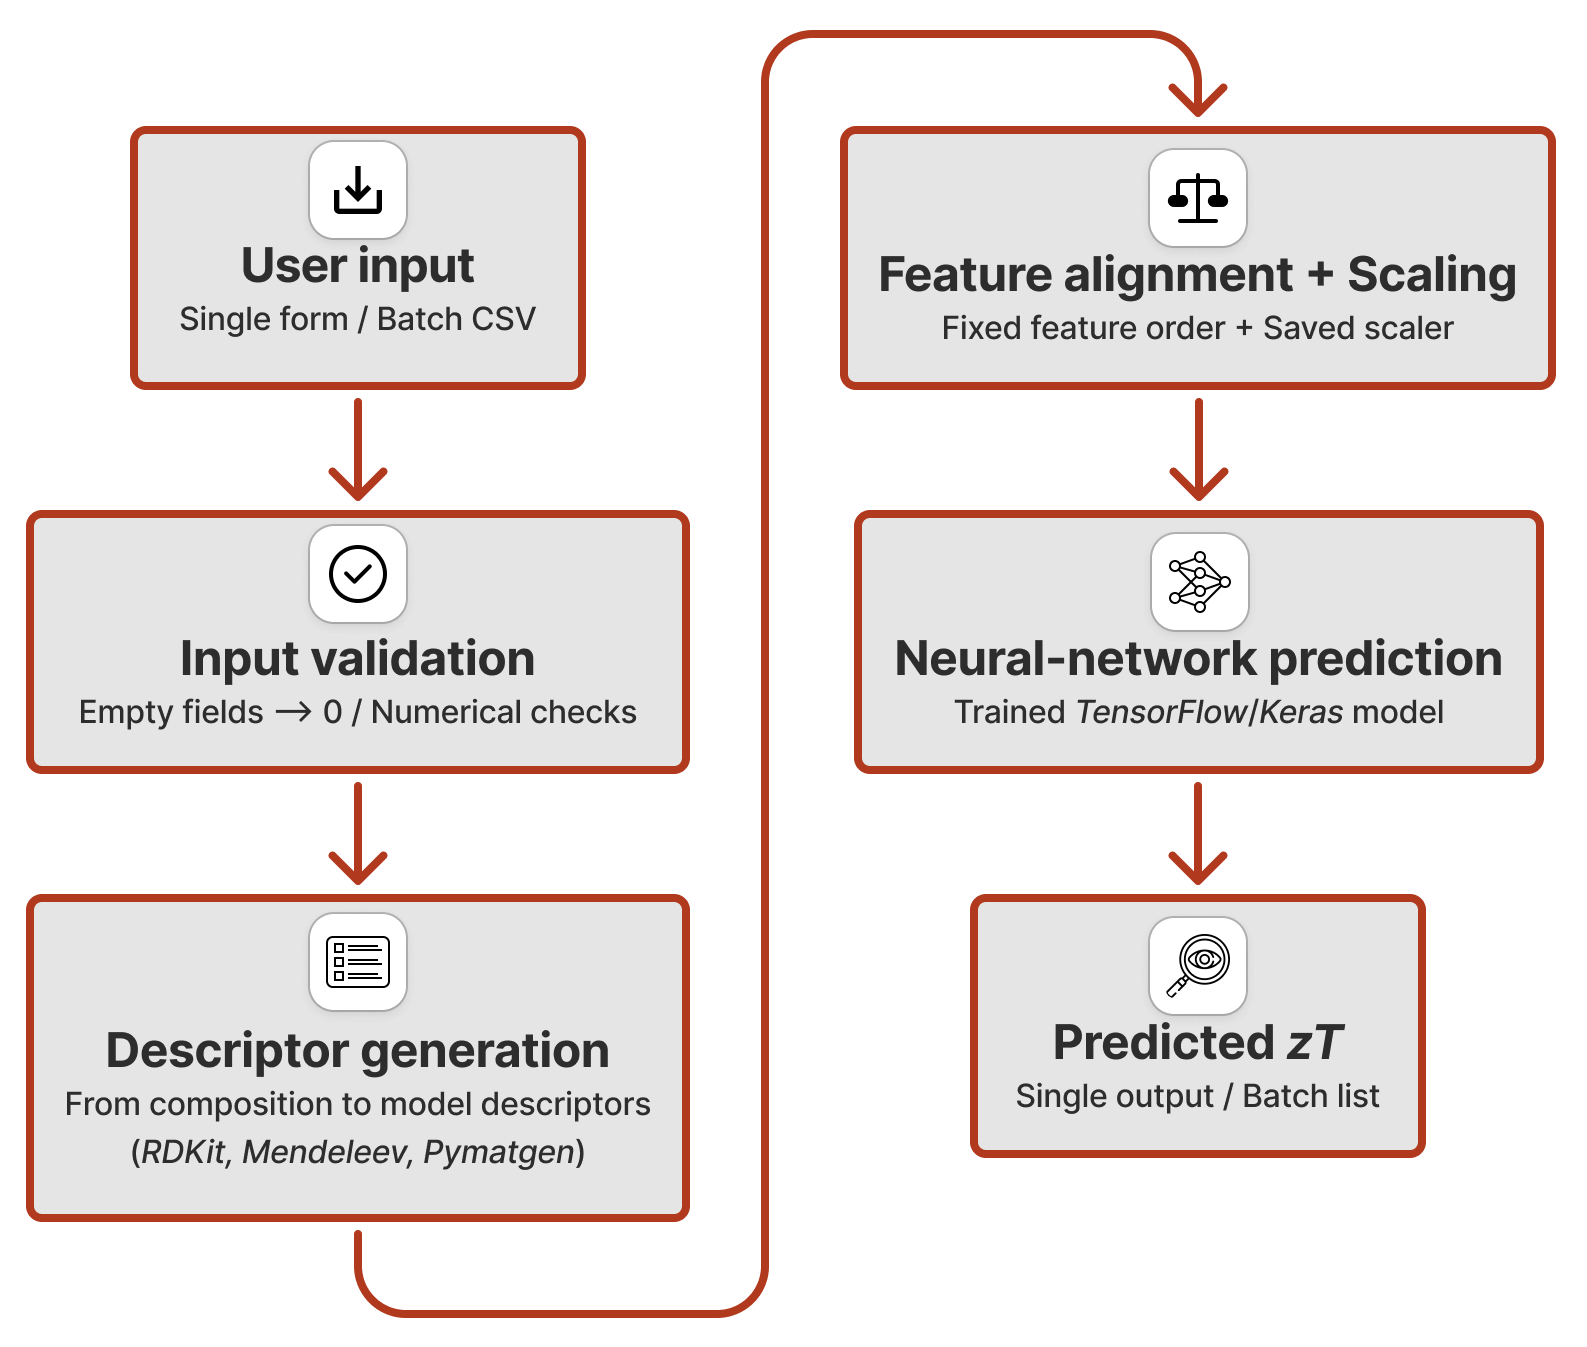
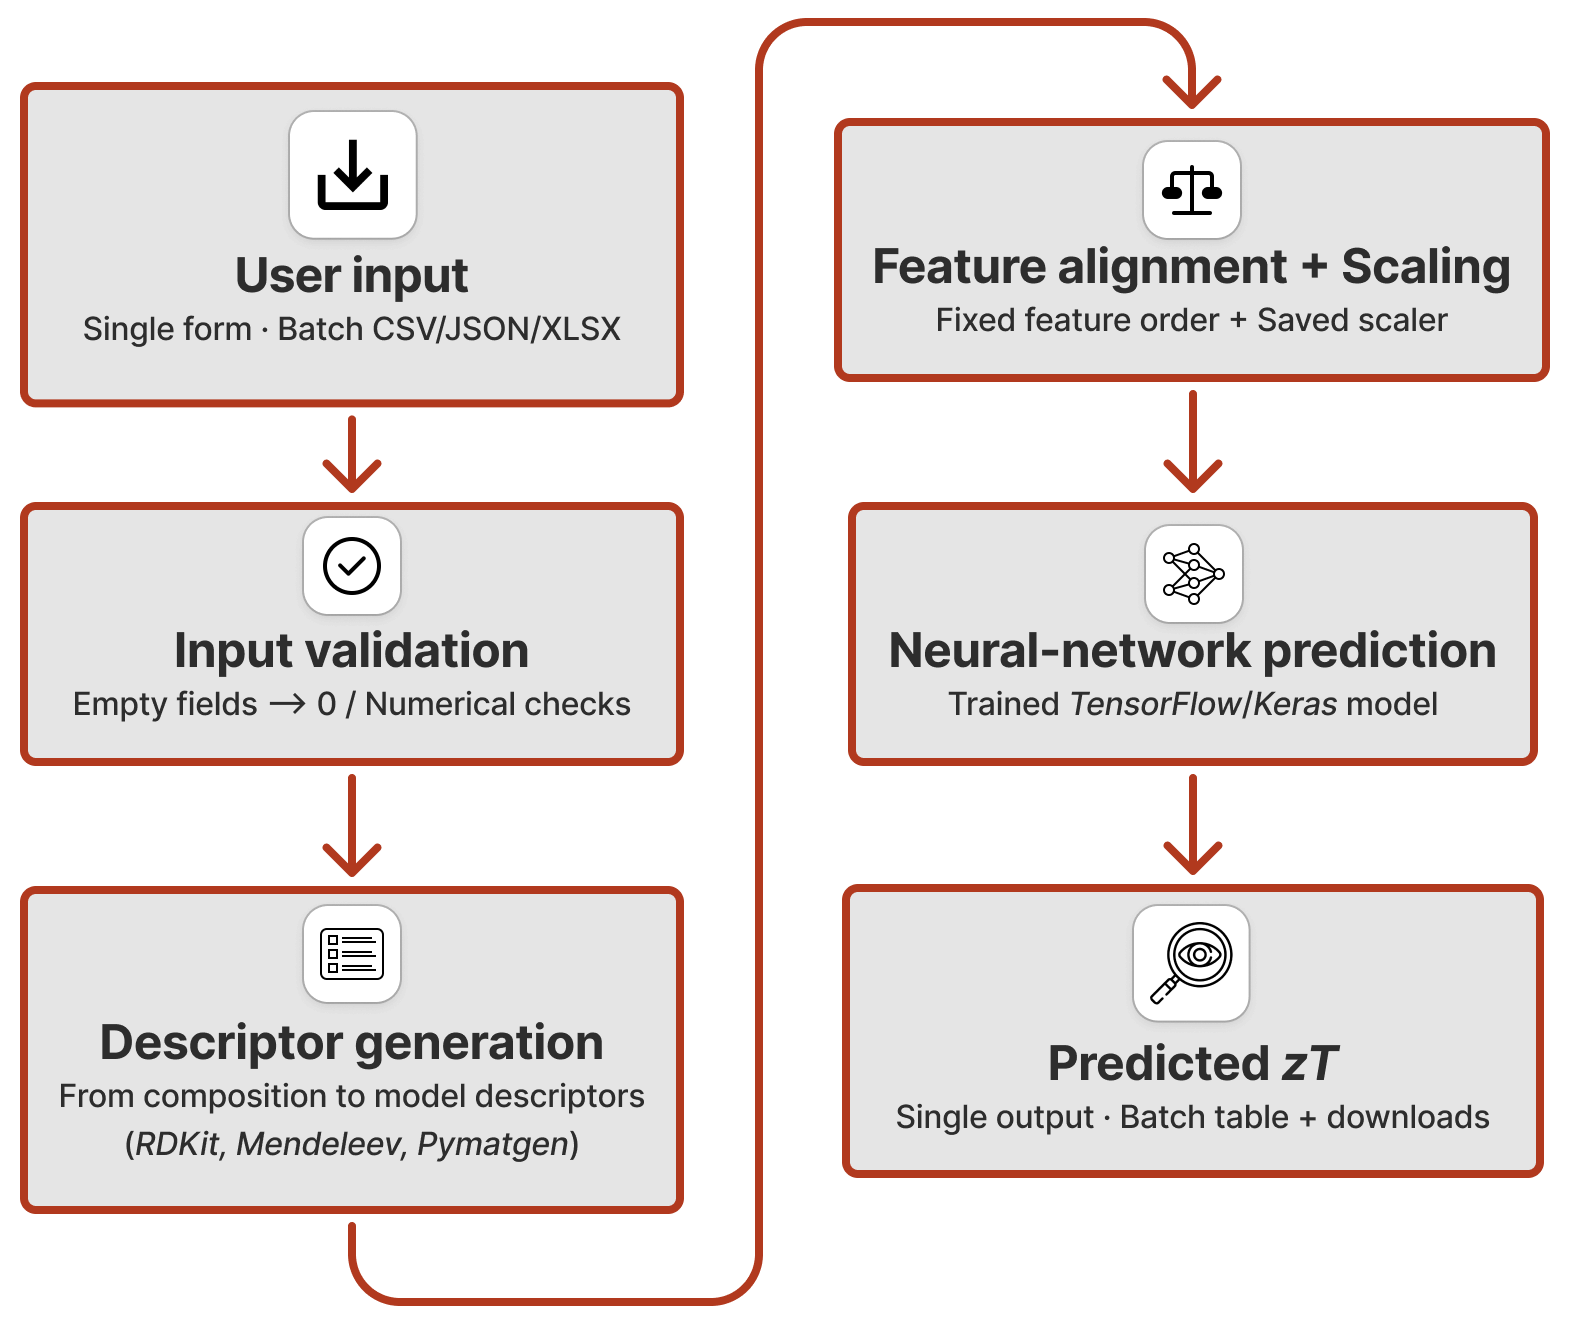
Polish documentation for JOSS submission

diff --git a/static/index.html b/static/index.html
@@ -205,6 +205,29 @@
       min-height: 220px;
     }
 
+    .side-stack {
+      display: flex;
+      flex-direction: column;
+      gap: 22px;
+      height: 100%;
+    }
+
+    .intro-card {
+      min-height: 0;
+      justify-content: flex-start;
+      gap: 10px;
+    }
+
+    .intro-card p {
+      margin: 0;
+      color: var(--muted);
+      font-size: 0.95rem;
+    }
+
+    .metrics-card {
+      flex: 1;
+    }
+
     .metric {
       border-top: 1px solid var(--line);
       padding-top: 16px;
@@ -494,18 +517,29 @@
         </div>
       </div>
 
-      <aside class="side-card">
-        <div class="metric">
-          <div class="metric-label">Validation</div>
-          <div class="metric-value">RMSE 0.068 · R² 0.947</div>
+      <aside class="side-stack">
+        <div class="side-card intro-card">
+          <div>
+            <div class="metric-label">What is this?</div>
+            <p>
+              Thermoelectric materials convert heat into electricity. <em>zTSkut</em> estimates the thermoelectric efficiency (<em>zT</em>) of skutterudite materials from composition, carrier concentration, temperature and carrier type.
+            </p>
+          </div>
         </div>
-        <div class="metric">
-          <div class="metric-label">External test</div>
-          <div class="metric-value">RMSE 0.156 · R² 0.836</div>
-        </div>
-        <div class="metric">
-          <div class="metric-label">Input modes</div>
-          <div class="metric-value">Single · Batch CSV/JSON/XLSX</div>
+
+        <div class="side-card metrics-card">
+          <div class="metric">
+            <div class="metric-label">Validation</div>
+            <div class="metric-value">RMSE 0.068 · R² 0.947</div>
+          </div>
+          <div class="metric">
+            <div class="metric-label">External test</div>
+            <div class="metric-value">RMSE 0.156 · R² 0.836</div>
+          </div>
+          <div class="metric">
+            <div class="metric-label">Input modes</div>
+            <div class="metric-value">Single · Batch CSV/JSON/XLSX</div>
+          </div>
         </div>
       </aside>
     </section>
@@ -604,7 +638,7 @@
         <h2>Batch prediction</h2>
         <a class="template-link" href="/static/sample_template.csv" download>Download CSV template</a>
       </div>
-      <p class="hint">Upload a CSV, JSON, or Excel (.xlsx) file to predict zT for multiple skutterudite candidates in one run. Files should use measured or experimentally determined stoichiometric fractions, not nominal synthesis fractions.</p>
+      <p class="hint">Upload a CSV, JSON or Excel (.xlsx) file to predict zT for multiple skutterudite candidates in one run. Files should use measured or experimentally determined stoichiometric fractions, not nominal synthesis fractions.</p>
 
       <div class="two-col">
         <div>

diff --git a/paper/paper.md b/paper/paper.md
@@ -48,13 +48,13 @@ affiliations:
     index: 4
   - name: Departamento de Química Inorgánica, Universidad Complutense de Madrid, Madrid, Spain
     index: 5
-date: 3 July 2026
+date: 13 July 2026
 bibliography: paper.bib
 ---
 
 # Summary
 
-zTSkut is a Python-based web application for predicting the thermoelectric figure of merit, zT, of skutterudite-based compositions. The software provides both a browser interface for single-composition prediction and a CSV-upload workflow for batch screening. Users specify the anion, cation and filler species, their corresponding fractions, carrier concentration at 300 K, temperature and carrier type. zTSkut then generates the same compositional descriptors used by the trained neural-network model, applies the saved feature scaling from the original training workflow and returns predicted zT values.
+zTSkut is a Python-based web application for predicting the thermoelectric figure of merit, zT, of skutterudite-based compositions. The software provides both a browser interface for single-composition prediction and a batch-screening workflow based on CSV, JSON or Excel `.xlsx` input files. Users specify the anion, cation and filler species, their corresponding fractions, carrier concentration at 300 K, temperature and carrier type. zTSkut then generates the same compositional descriptors used by the trained neural-network model, applies the saved feature scaling from the original training workflow and returns predicted zT values. For batch predictions, users can download the input table augments with a `predicted_ZT` column in CSV, JSON or Excel `.xlsx` format.
 
 The backend generates the compositional descriptors required by the trained neural-network model, orders them according to the original feature list, applies the saved `StandardScaler` from the training workflow, and returns predicted zT values. This ensures that user predictions follow the same preprocessing pathway as the published model-development study. zTSkut is built with a FastAPI backend and a lightweight HTML/CSS/JavaScript frontend, and includes input validation to catch common formatting errors.
 
@@ -78,9 +78,9 @@ zTSkut therefore fills a focused gap: it packages the trained skutterudite model
 
 The main design goal of zTSkut is to make the trained skutterudite zT model accessible while preserving the exact preprocessing workflow used during model development. For this reason, the software separates the user interface from the prediction pipeline but keeps the deployment structure simple enough to run locally or on a lightweight web service.
 
-The backend is implemented with FastAPI, with both the single-system form and the batch CSV upload passing through the same prediction workflow. The prediction script reads the input, validates numerical fields, replaces empty optional fields with zero and generates the compositional descriptors required by the trained model. Descriptor generation uses RDKit [@rdkit2024] to parse element-level chemical inputs and obtain valence-electron descriptors, while Mendeleev [@mendeleev2014] and Pymatgen [@pymatgen2013] provide elemental properties, including atomic masses as well as ionisation-energy, electron-affinity and electronegativity values. The resulting descriptor table is ordered according to `feature_columns_ZT.txt`, transformed with `scaler_ZT.joblib`, which stores the feature-scaling parameters fitted during model training, and finally evaluated with the trained `model_keras_skutt.h5` model. The same end-to-end prediction workflow is summarised in **Figure 1**.
+The backend is implemented with FastAPI, with both the single-system form and the batch uploads passing through the same prediction workflow. Batch inputs can be provided as CSV, JSON or Excel `.xlsx` files; JSON and Excel inputs are converted internally to the same CSV-style table before descriptor generation and prediction. The prediction script reads the input, validates numerical fields, replaces empty optional fields with zero and generates the compositional descriptors required by the trained model. Descriptor generation uses RDKit [@rdkit2024] to parse element-level chemical inputs and obtain valence-electron descriptors, while Mendeleev [@mendeleev2014] and Pymatgen [@pymatgen2013] provide elemental properties, including atomic masses as well as ionisation-energy, electron-affinity and electronegativity values. The resulting descriptor table is ordered according to `feature_columns_ZT.txt`, transformed with `scaler_ZT.joblib`, which stores the feature-scaling parameters fitted during model training, and finally evaluated with the trained `model_keras_skutt.h5` model. The same end-to-end prediction workflow is summarised in **Figure 1**.
 
-![zTSkut prediction workflow. Single-composition and batch CSV inputs are processed through the same backend pipeline, including input validation, descriptor generation with RDKit, Mendeleev and Pymatgen, feature alignment using `feature_columns_ZT.txt`, scaling with `scaler_ZT.joblib` and prediction with the trained TensorFlow/Keras model.](figures/ztskut_workflow.png)
+![zTSkut prediction workflow. Single-composition inputs and batch CSV, JSON or Excel `.xlsx` inputs are processed through the same backend pipeline, including input validation, descriptor generation with RDKit, Mendeleev and Pymatgen, feature alignment using `feature_columns_ZT.txt`, scaling with `scaler_ZT.joblib` and prediction with the trained TensorFlow/Keras model.](figures/ztskut_workflow.png)
 
 A deliberate trade-off was made to keep the software lightweight and transparent rather than building a more complex package architecture. The current implementation uses a small number of files so that it can be deployed easily on Render and run locally with a single Uvicorn command. This is important for the intended audience: researchers who want to use the model for candidate screening should not need to install a large framework or understand the full training workflow. At the same time, the repository includes tests for basic web app functionality, prediction through the backend endpoint and input validation, so that reviewers and users can verify that the core workflow is functioning.
 
@@ -91,7 +91,9 @@ The frontend is implemented as a lightweight HTML/CSS/JavaScript interface witho
 The current implementation provides the following functionality:
 
 - Single-system prediction through a browser form
-- Batch prediction from CSV files
+- Batch prediction from CSV, JSON and Excel `.xlsx` files
+- Downloadable batch prediction results in CSV, JSON, and Excel `.xlsx` formats
+- Preservation of uploaded input fields in batch outputs, with predictions added as a new `predicted_ZT` column
 - Automatic treatment of empty optional composition and fraction fields as zero
 - Generation of the compositional descriptor set expected by the trained model
 - Application of the saved training scaler and fixed feature order
@@ -99,17 +101,17 @@ The current implementation provides the following functionality:
 - Downloadable citation files for users of the model
 - Local execution through FastAPI as well as deployment as a web app
 
-For batch predictions, users can download the CSV template, add one candidate composition per row and upload the completed file. The app returns one predicted zT value per row.
+For batch predictions, users can download the CSV template, add one candidate composition per row or record and upload the completed file as CSV, JSON or Excel `.xlsx`. The app returns one predicted zT value per system and provides downloadable result files in which the original input fields are preserved and the prediction is added as `predicted_ZT`.
 
 # Research impact statement
 
 The scientific model served by zTSkut has already been peer reviewed and published in Journal of Materials Chemistry A [@posligua2026skutterudites]. In that study, the model was trained on a curated skutterudite dataset and evaluated using internal validation, independent external testing, comparison with experimental trends and physical interpretation through SHAP analysis and first-principles calculations.
 
-zTSkut extends the impact of that work by converting the published model into an accessible screening tool. This is particularly useful for experimental and computational researchers considering new filled or multi-filled skutterudite compositions, because the software provides rapid first-pass predictions before synthesis or expensive transport calculations. The live web app, documented CSV format, citation files, local execution workflow and test suite make the model easier to reuse beyond the original manuscript and support its integration into future thermoelectric screening workflows.
+zTSkut extends the impact of that work by converting the published model into an accessible screening tool. This is particularly useful for experimental and computational researchers considering new filled or multi-filled skutterudite compositions, because the software provides rapid first-pass predictions before synthesis or expensive transport calculations. The live web app, documented CSV/JSON/Excel input formats, downloadable result files, citation files, local execution workflow and test suite make the model easier to reuse beyond the original manuscript and support its integration into future thermoelectric screening workflows.
 
 # Availability and use
 
-The web application is available at <https://ztskut.onrender.com/>. The repository provides the source code, trained model files, saved scaler, feature-column definition, CSV template, example inputs, citation files and basic tests for the web endpoint and input validation. Users can access the model either through the deployed web interface or by running the same backend prediction workflow locally using the example CSV files.
+The web application is available at <https://ztskut.onrender.com/>. The repository provides the source code, trained model files, saved scaler, feature-column definition, CSV template, example inputs, citation files and tests for the web endpoint, supported upload formats, downloadable batch outputs and input validation. Users can access the model either through the deployed web interface or by running the same backend prediction workflow locally using the example CSV files.
 
 zTSkut is intended as a screening and prioritisation tool. Predictions should be interpreted within the chemical and thermoelectric domain represented by the model-development dataset. In particular, predictions for compositions far outside the training chemistry, unusual carrier concentrations or temperatures, systems affected by secondary phases, or very high-zT regimes should be treated with caution and validated experimentally or with higher-fidelity calculations.
 

diff --git a/README.md b/README.md
@@ -182,25 +182,27 @@ On Windows, activate the environment using:
 
 ## Running the web app locally
 
-The app is served with FastAPI and Uvicorn:
+The app is served with FastAPI and Uvicorn. After installing the dependencies from `requirements.txt`, the FastAPI web app can be run locally from the repository root:
 
 ```bash
-uvicorn main:app --reload
+python -m uvicorn main:app --reload
 ```
 
-Then open:
+Then open the local app in a browser:
 
 ```text
 http://127.0.0.1:8000
 ```
 
-This runs the same FastAPI app locally and does not require Render.
+The `--reload` option is useful during development because the server restarts automatically when files are edited.
 
-For deployment on Render, the start command is:
+If the command fails with `No module named uvicorn`, make sure the virtual environment is activated and that the dependencies were installed correctly:
 
 ```bash
-uvicorn main:app --host 0.0.0.0 --port $PORT
+pip install -r requirements.txt
 ```
+
+This runs the same FastAPI app locally and does not require Render.
 
 ---
 